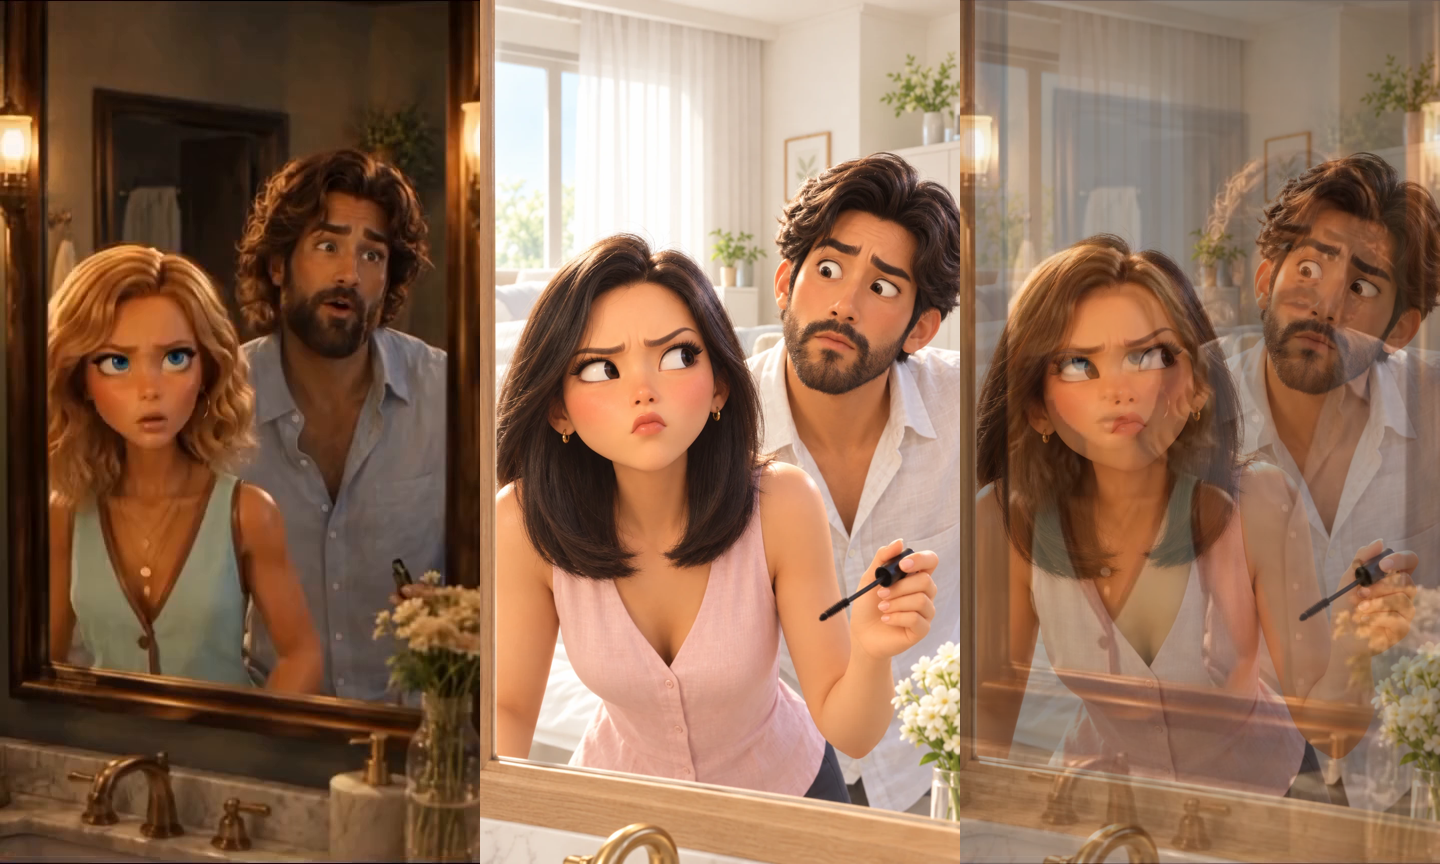
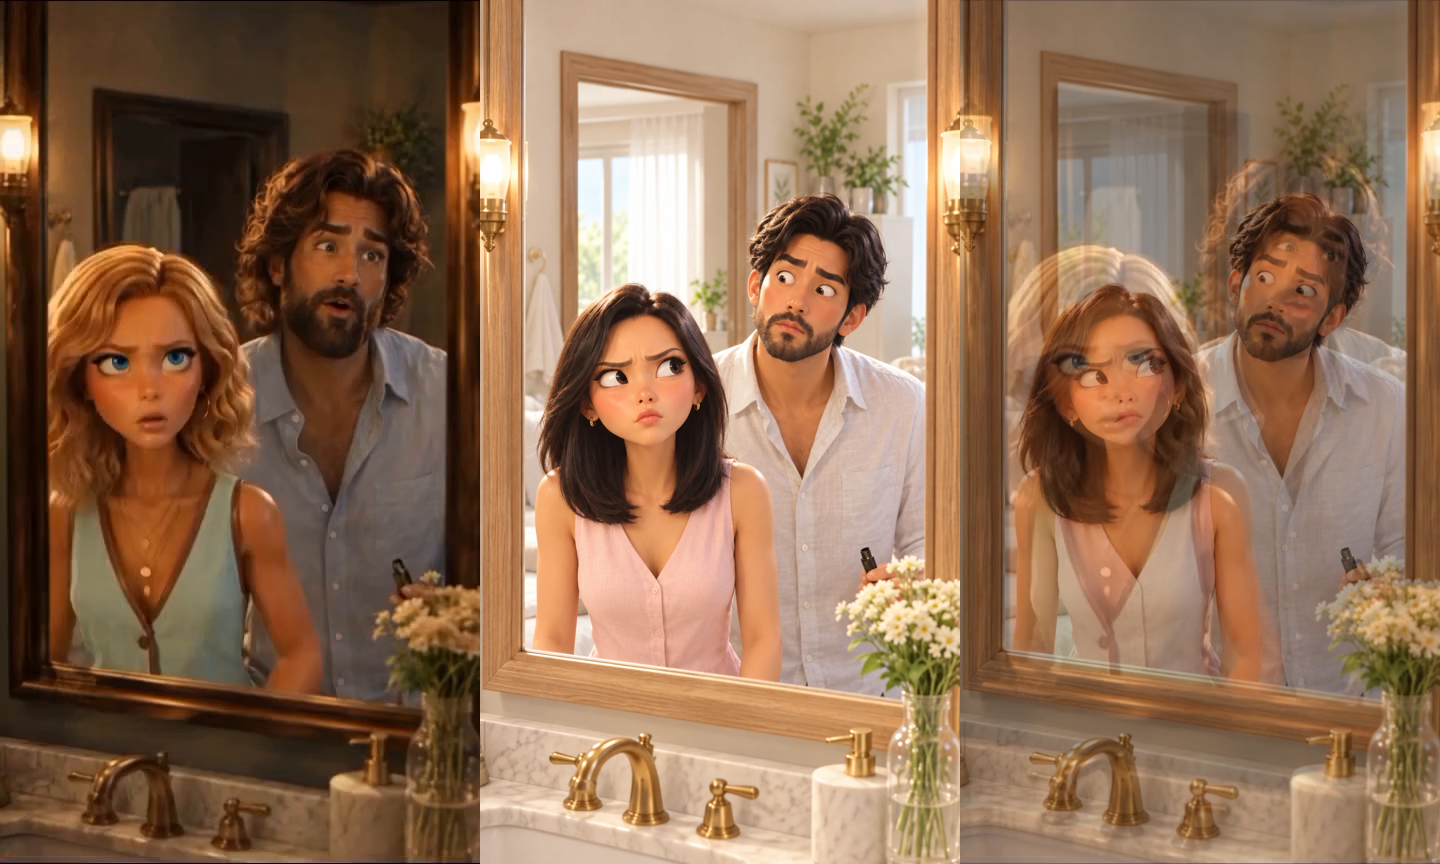
Next7: Ref-B approved, video edit prompts
Claude-Session: https://claude.ai/code/session_01NadtamC3j7eyTVHCEF92VQ

diff --git a/work/week3/next7/PLAN.md b/work/week3/next7/PLAN.md
@@ -22,7 +22,8 @@
 ## 제작: 한국인 커플 + 밝은 안방 화장대 (3D 애니 스타일 유지), 동영상 수정
 - 컷 2개: ref/Src-A.mp4(0–11.5) / ref/Src-B.mp4(11.5–16.4, 4.5초). 예상 MiniMax 768: A 약 2200 + B 약 870.
 - 1단계 Ref-A: ref/Src-A-Frame.png(2.6초, 두 사람 다 보임) → GPT → ref/Ref-A.png  → 통과(935x1681, 구도·표정·손 위치 일치)
-- 2단계 Ref-B: ref/Src-B-First.png + Ref-A.png → GPT → ref/Ref-B.png
+- 2단계 Ref-B: ref/Src-B-First.png + Ref-A.png → GPT → ref/Ref-B.png  → v1 불합격(클로즈업), v2 통과(940x1672, 넓은 샷 일치)
+- 3단계: MiniMax H3 768 — A: Src-A + @img1 Ref-A → clips/Next7-K1.mp4 / B: Src-B + @img1 Ref-B, @img2 Ref-A → clips/Next7-K2.mp4
 - 남자 수염 유지(4.5–8.5 여자가 마스카라로 콧수염 흉내 → 11.5 이후 남자가 자기 얼굴 가리킴 개그).
 
 ## 내용 (사용자 확인)
